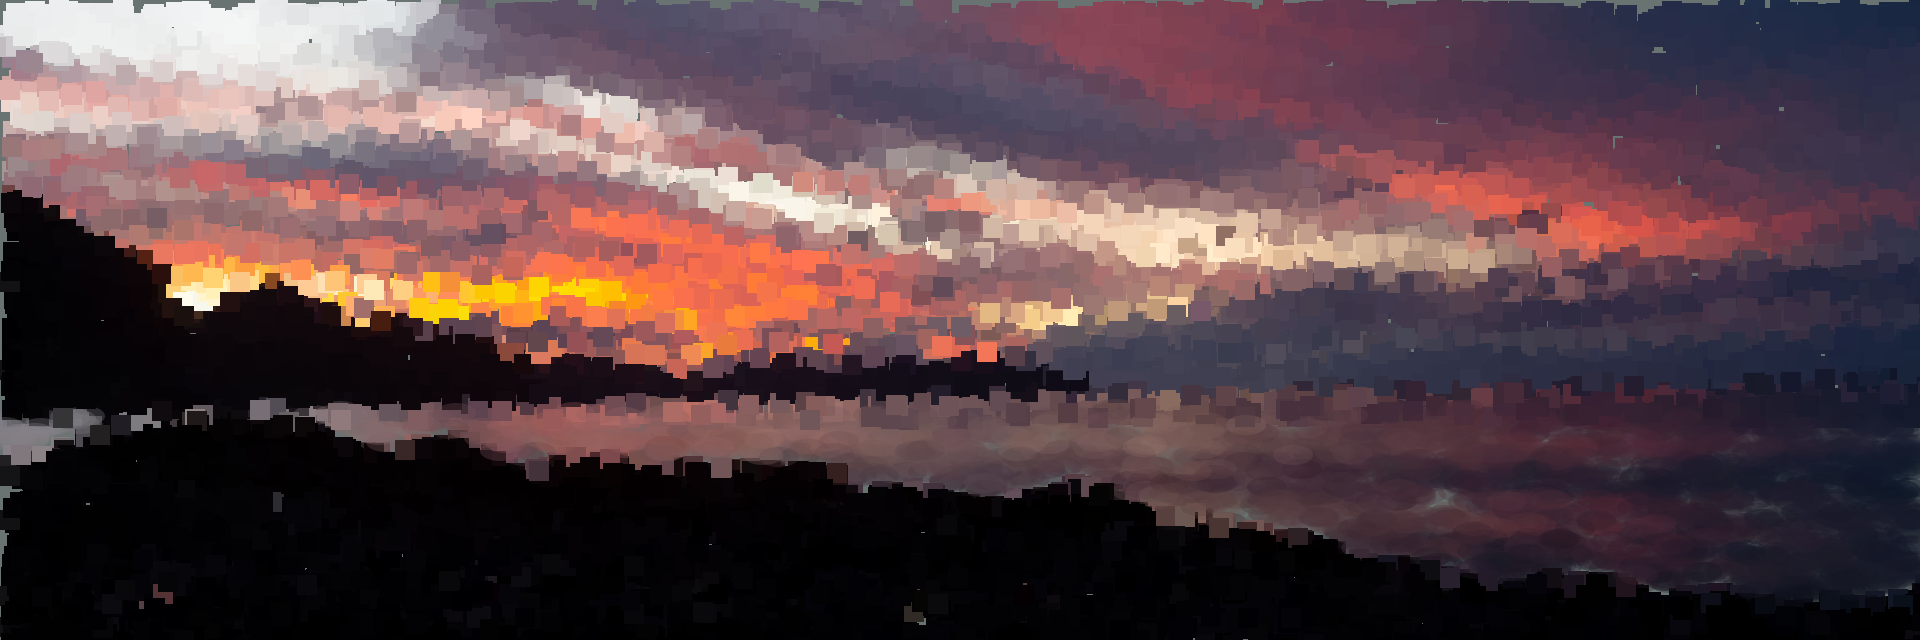
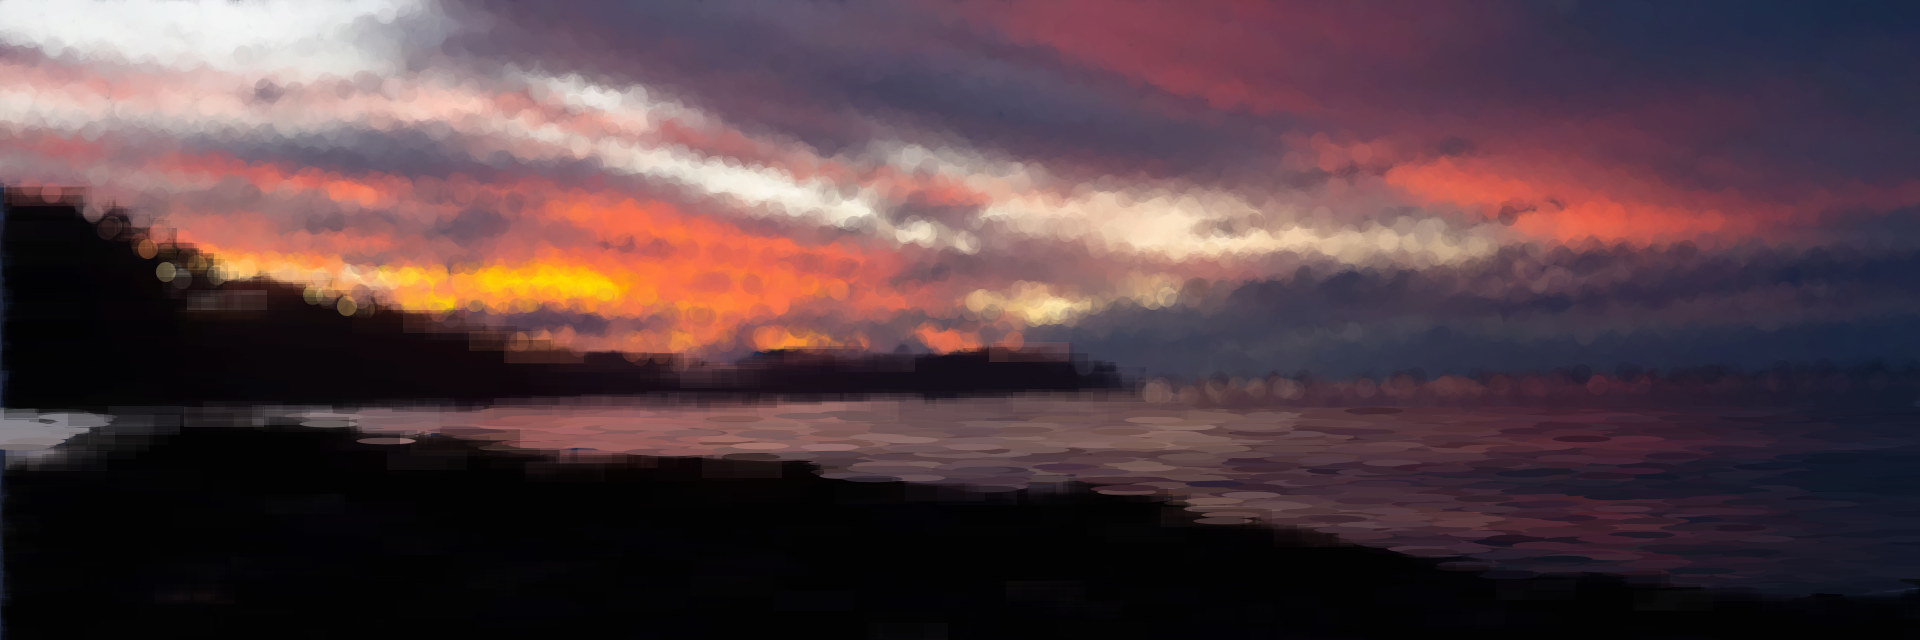
Update to my ideas around style
Including visual references

diff --git a/sketch.js b/sketch.js
@@ -18,13 +18,13 @@ function setup () {
 
   imageMode(CENTER);
   noStroke();
-  background(104, 115, 114);
+  background(34, 41, 64);
   sourceImg.loadPixels();
   maskImg.loadPixels();
 }
 
-const squareHeight=20;
-const squareWidth=20;
+const size=20;
+
 
 function draw () {
   for(let i=0;i<2000;i++) {
@@ -34,21 +34,26 @@ function draw () {
     let mask = maskImg.get(x, y);
 
 
-//if the mask is white
-    if(mask[0]) {
+//this is the sea
+    if(mask[0] == 0) {
       fill(pix[0], pix[1], pix[2]);
-      rect(x,y, squareWidth,squareHeight);
-      //Earth();
+      ellipse(x,y, size*3,size/3);
+
     }
-    //if the mask isn't black
-    else {
+    //this is the earth
+    else if(mask[0] ==255 ) {
+      fill(pix[0], pix[1], pix[2], 60);
+      rect(x, y, size*4,size);
+
+    }
+    //this is the sky
+    else if(mask[0] ==97){
       fill(pix[0], pix[1], pix[2], 80);
-      ellipse(x, y, squareWidth*2,squareHeight);
-      //Sea();
+      ellipse(x,y, size, size);
     }
   }
   renderCounter = renderCounter + 1;
-  if(renderCounter > 10) {
+  if(renderCounter > 35) {
     console.log("Done!")
     noLoop();
     // uncomment this to save the result

diff --git a/README.md b/README.md
@@ -1,8 +1,15 @@
 ## Creative Coding 2: Custom Pixel
 
-I have decided to 'scrap' my previous idea, as I appear to have accidentally created a slightly blurry look that I really like.
-As most of my photos deal with light I have decided that I'm going to embrace the softer more impressionistic look that I have stumbled upon.
-I am still working on separating the sky from the land and sea using the masks.
+I have decided to further embrace the impressionistic look of my pixels and have begun to draw inspiration from well known pieces from the impressionism art movement.
 
-I have chosen my final photo, also taken over Queen's birthday weekend, looking out over the beach towards Stevenson Island on a rainy day. I chose this photo because I like the contrast of the golden sand, the teal sea and the black/grey sky and rocks/islands.
-I also like how different the photo is from the other two images, so I have placed it as my second input so that it shows in between the two warmer photos taken at sunset
+I'm using Vincent Van Gogh's Seascape near Les Saintes-Maries-de-la-Mer (https://www.vangoghmuseum.nl/en/collection/s0117V1962?v=1) to partially inform the shape of my 'sea' pixels. I'm also drawing from various paintings by Claude Monet to further inform my 'sea' pixel shape, mostly focusing on Impression Sunrise (https://www.claude-monet.com/impression-sunrise.jsp) and San Giorgio Maggiore at Dusk (https://www.claude-monet.com/san-giorgio-maggiore-at-dusk.jsp).
+
+For my land pixels I'm looking more at Van Gogh's The Starry Night (https://www.vangoghgallery.com/painting/starry-night.html) and The Banks of the Seine (https://www.vangoghgallery.com/catalog/Painting/23/Banks-of-the-Seine,-The.html), also looking at Monet's By the Sea (https://www.claudemonetgallery.org/By-The-Sea.html) and Edgar Degas' Before the Race (https://www.edgar-degas.org/Before-The-Race-C.1893.html).
+
+For the sky I drew from Van Gogh's Seascape near Le Saintes-Maries-de-la-Mer and Coal Barges (https://www.vangoghgallery.com/catalog/Painting/66/Coal-Barges.html), along with Monet's Impression Sunrise.
+
+The shapes of each of these elements are currently just made from primitives to fit the general feel that I want to get.
+However I will work on refining the shapes so that they better fit the effect that i'm going for, and look more like brush strokes, as that is part of the point of impressionism,
+going for that kinda unrefined, 'painterly' look
+
+Personally I like the look of my second photo in this style as it is reminding me a lot of the various paintings by Monet of the sea
